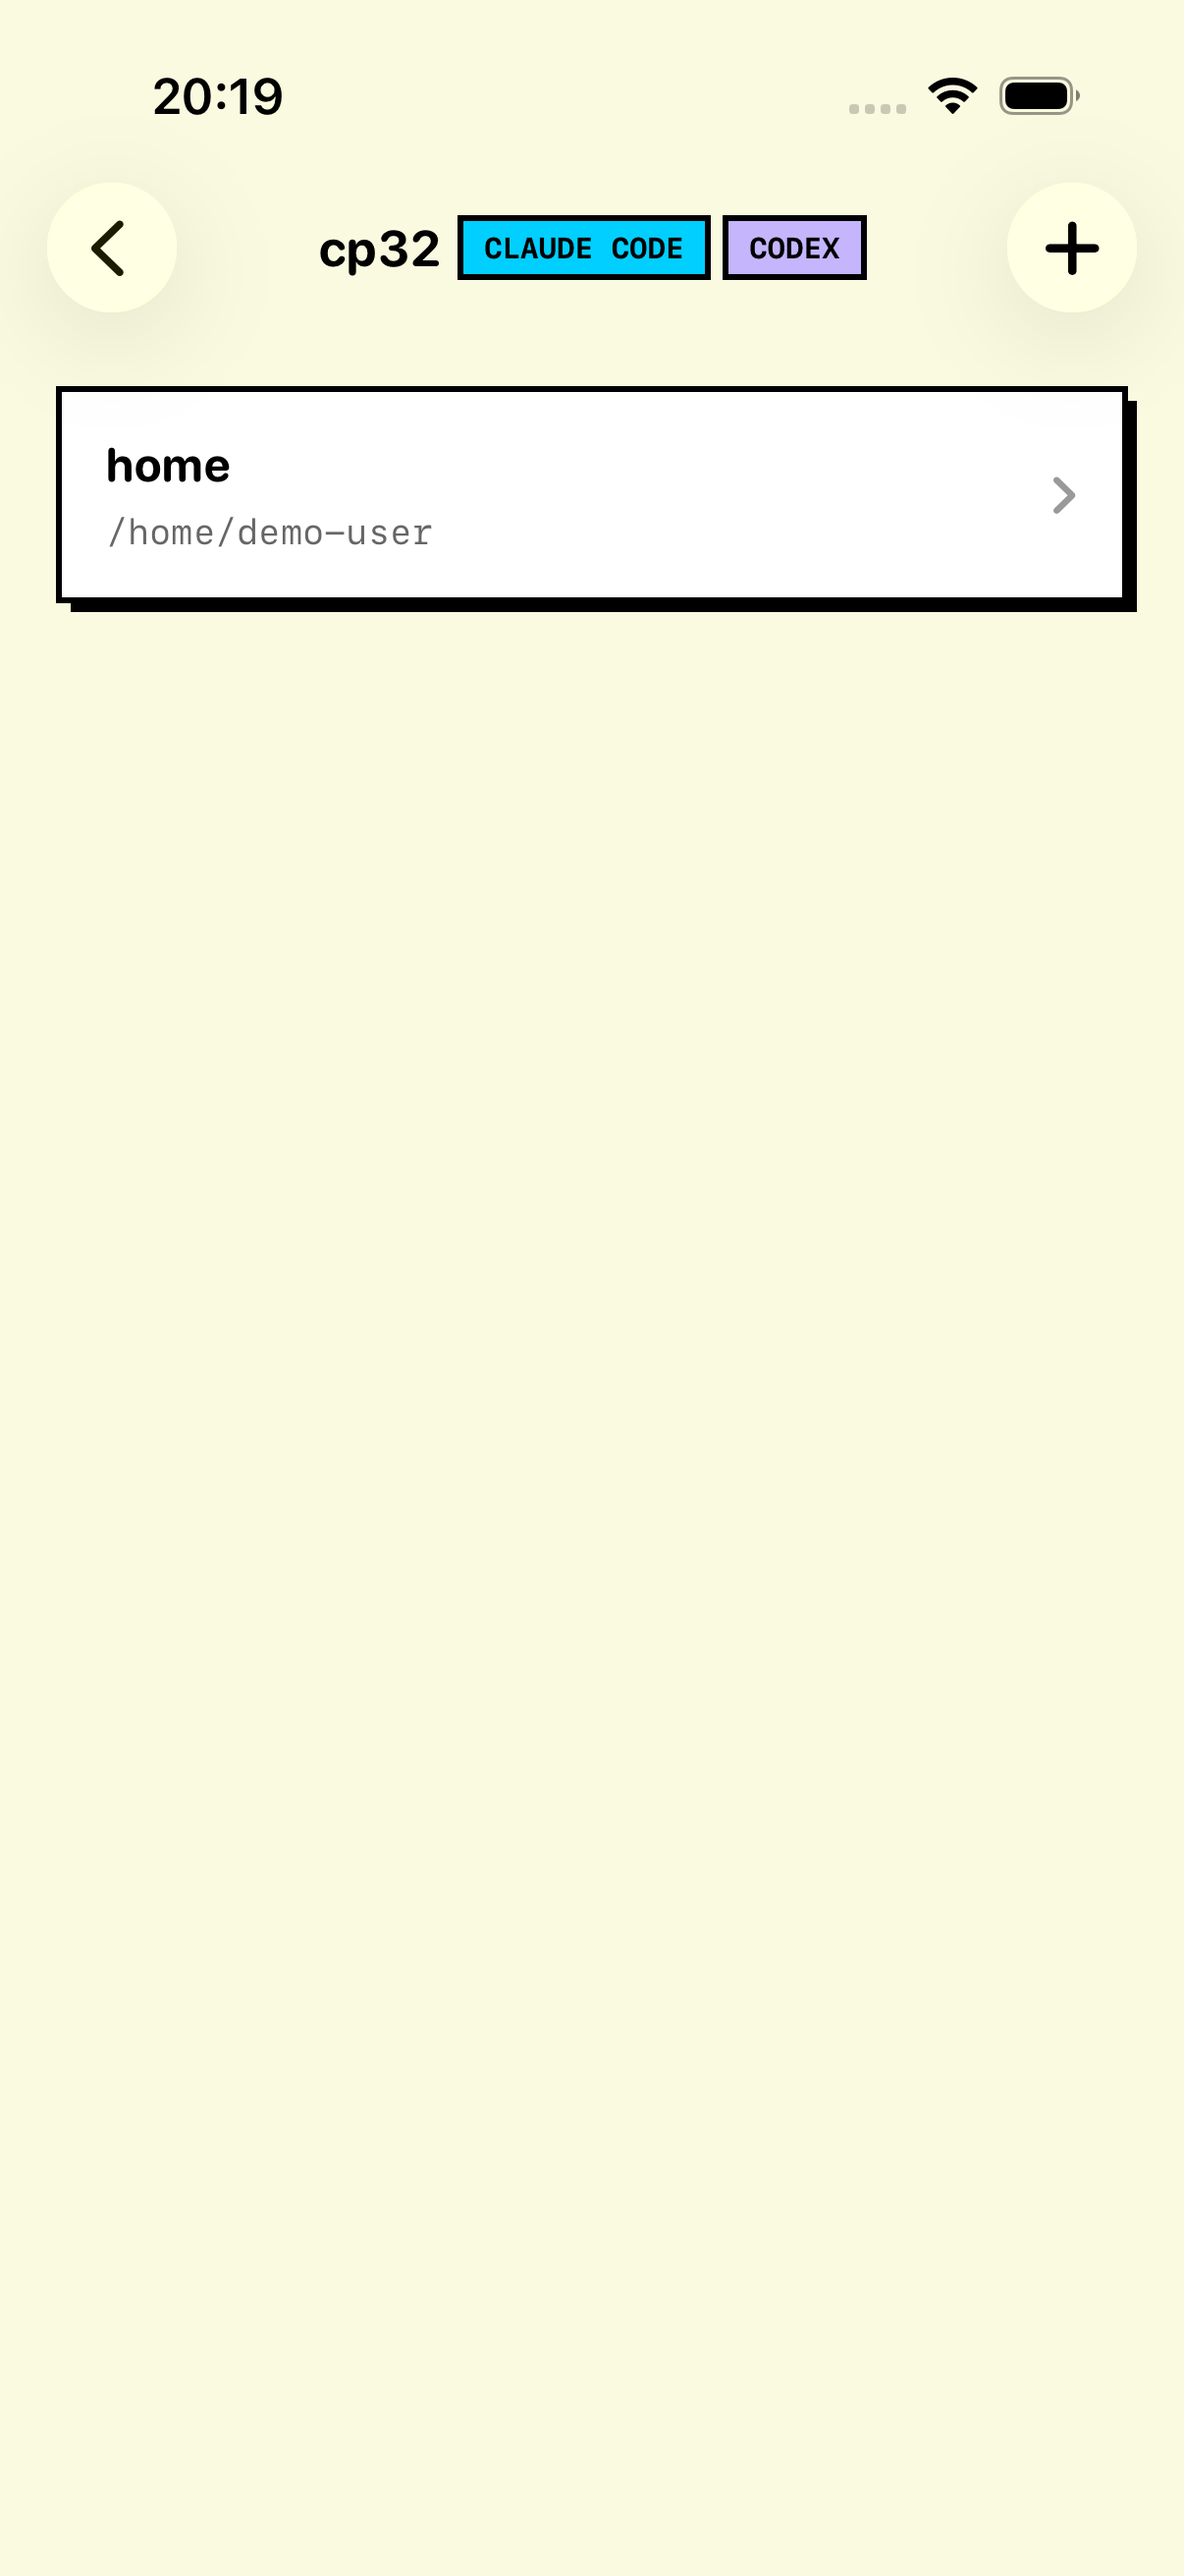
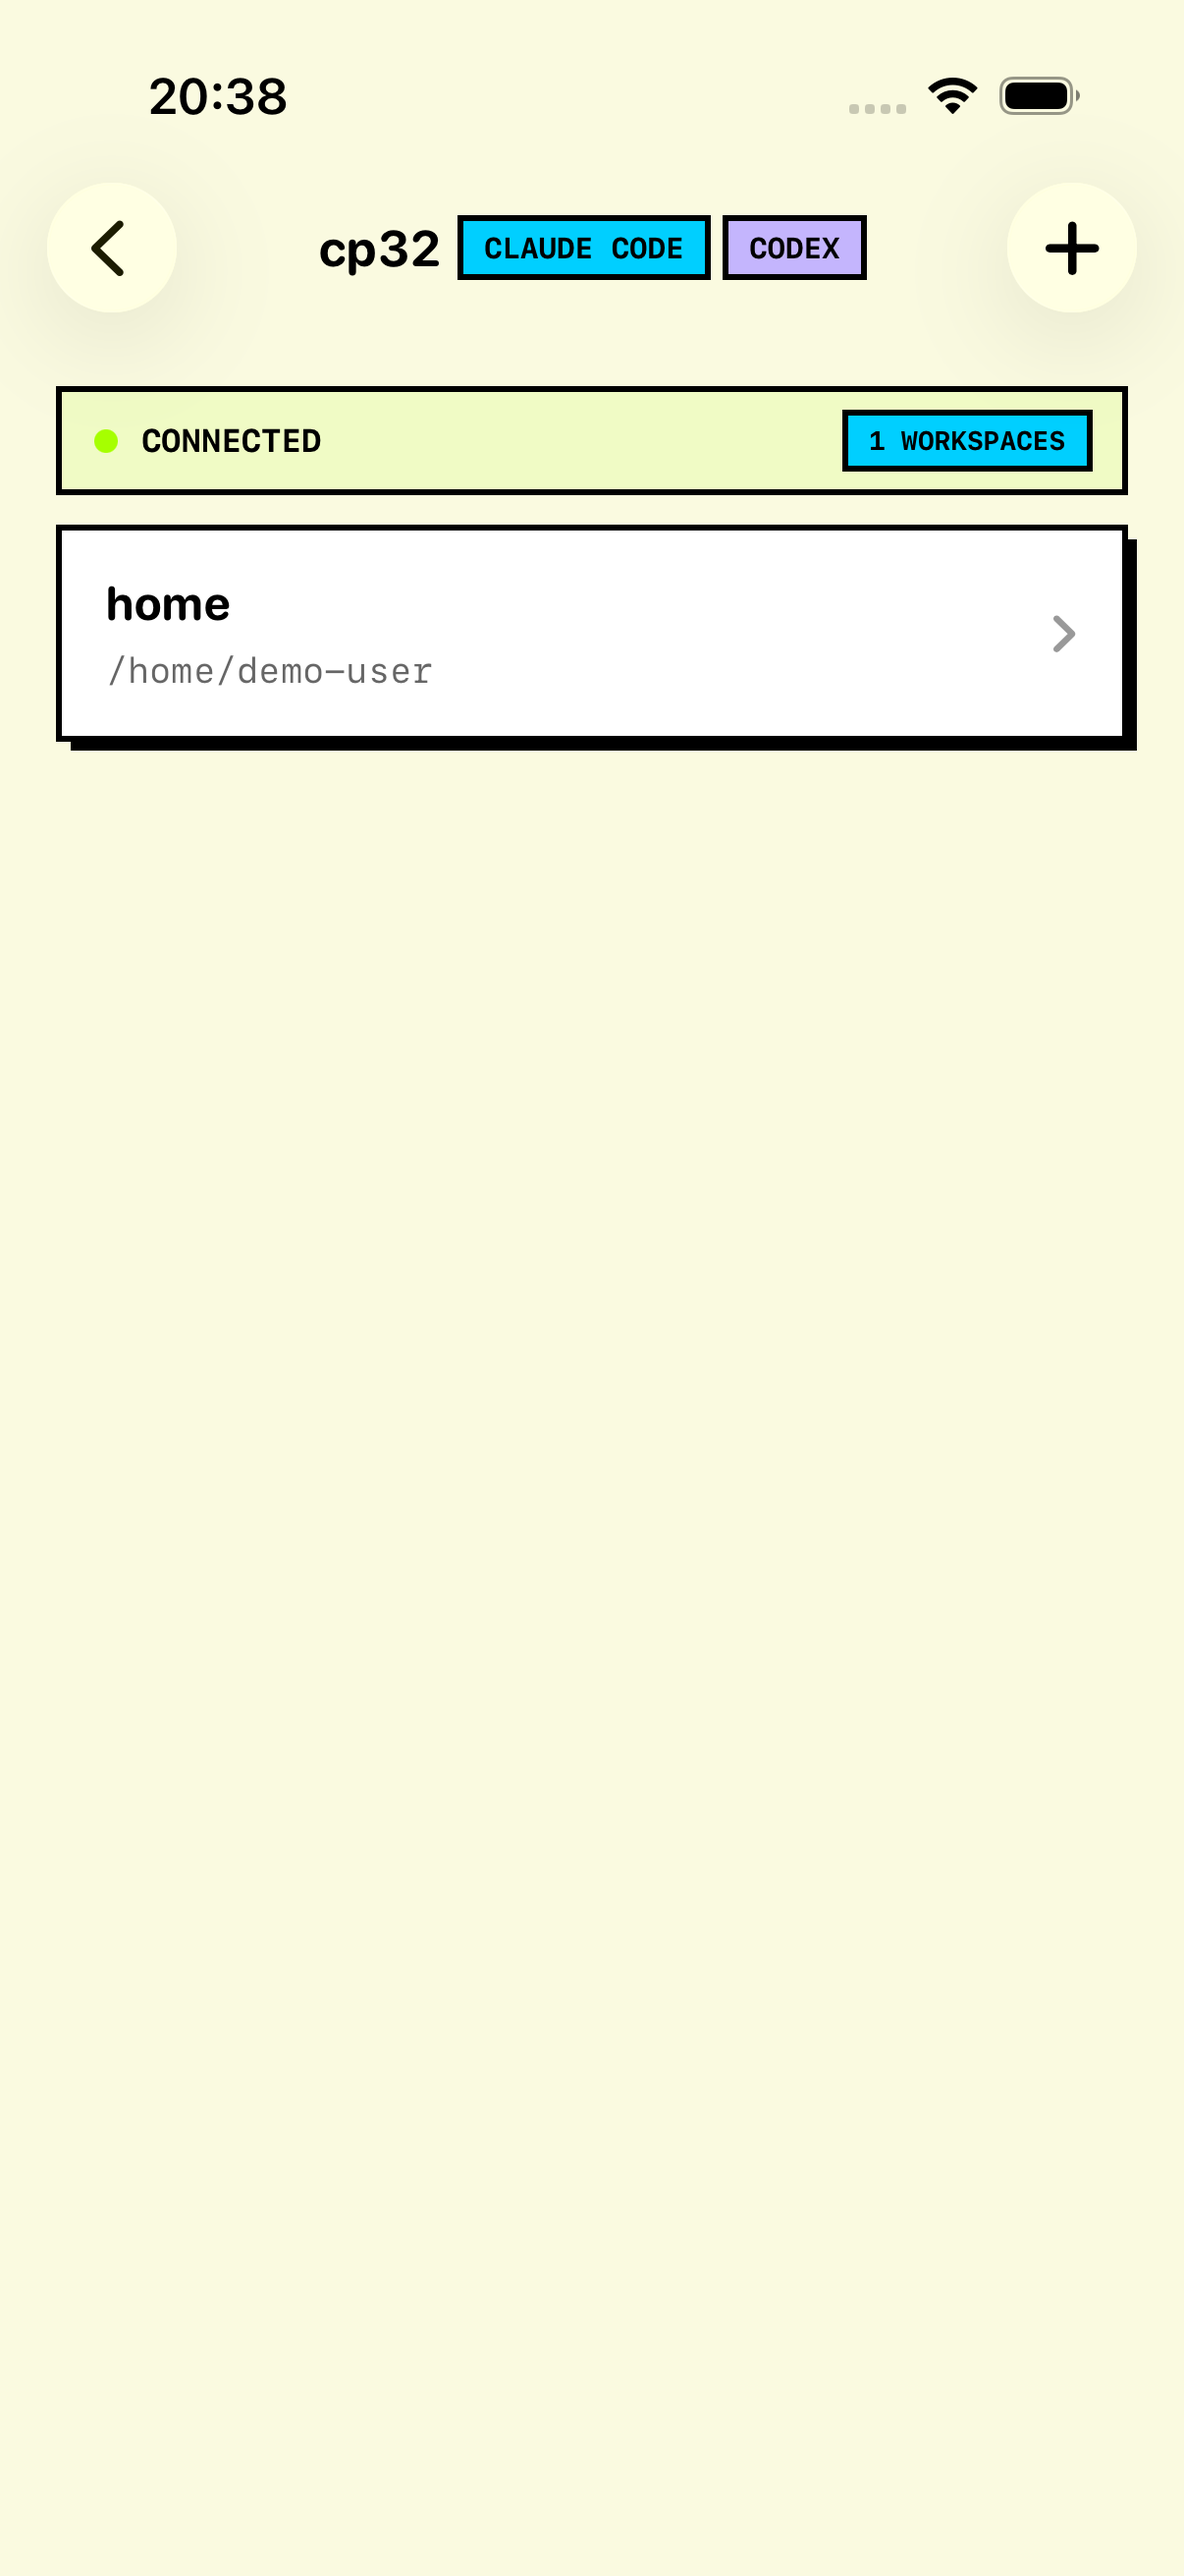
Improve main view color accents to match reference design
Add colorful state-based fills, count chips, and status banners
across SessionPicker, NodeList, WorkspaceList, and ChatView to
better align with the Slock reference design aesthetic.

Changed region(s): [[0.0307, 0.1545, 0.9818, 0.3089], [0.1227, 0.0309, 0.2454, 0.0618]]

diff --git a/Sources/Views/NodeListView.swift b/Sources/Views/NodeListView.swift
@@ -16,6 +16,16 @@ struct NodeListView: View {
                 brandingRow
                     .padding(.top, 20)
 
+                if !nodes.isEmpty {
+                    HStack {
+                        Text("NODES")
+                            .font(Brutal.mono(12, weight: .bold))
+                            .foregroundStyle(.black.opacity(0.5))
+                        BrutalChip("\(nodes.count)", fill: Brutal.lime, fontSize: 10)
+                        Spacer()
+                    }
+                }
+
                 ForEach(nodes) { node in
                     NavigationLink {
                         WorkspaceListView(node: node)
@@ -101,24 +111,30 @@ struct NodeListView: View {
     }
 
     private var brandingRow: some View {
-        VStack(spacing: 8) {
-            Image("LogoMark")
-                .resizable()
-                .interpolation(.high)
-                .scaledToFit()
-                .frame(width: 80, height: 80)
+        VStack(spacing: 0) {
+            VStack(spacing: 8) {
+                Image("LogoMark")
+                    .resizable()
+                    .interpolation(.high)
+                    .scaledToFit()
+                    .frame(width: 80, height: 80)
 
-            Image("LogoWordmark")
-                .resizable()
-                .interpolation(.high)
-                .scaledToFit()
-                .frame(height: 32)
+                Image("LogoWordmark")
+                    .resizable()
+                    .interpolation(.high)
+                    .scaledToFit()
+                    .frame(height: 32)
 
-            Image("LogoTagline")
-                .resizable()
-                .interpolation(.high)
-                .scaledToFit()
-                .frame(height: 18)
+                Image("LogoTagline")
+                    .resizable()
+                    .interpolation(.high)
+                    .scaledToFit()
+                    .frame(height: 18)
+            }
+            .frame(maxWidth: .infinity)
+            .padding(.vertical, 16)
+            .background(Brutal.lime.opacity(0.15))
+            .overlay(Rectangle().stroke(Color.black, lineWidth: Brutal.border))
         }
         .accessibilityElement(children: .ignore)
         .accessibilityLabel("OpenCAN logo")

diff --git a/Sources/Views/SessionPickerView.swift b/Sources/Views/SessionPickerView.swift
@@ -212,10 +212,17 @@ struct SessionPickerView: View {
                 // Session list
                 let sessions = unifiedSessions
                 if !sessions.isEmpty {
-                    HStack {
+                    HStack(spacing: 6) {
                         Text("SESSIONS")
                             .font(Brutal.mono(12, weight: .bold))
                             .foregroundStyle(.black.opacity(0.5))
+                        BrutalChip("\(sessions.count)", fill: Brutal.cyan, fontSize: 9)
+                        let running = sessions.filter {
+                            ["running", "prompting", "draining", "attached"].contains($0.displayState)
+                        }.count
+                        if running > 0 {
+                            BrutalChip("\(running) active", fill: Brutal.lime, fontSize: 9)
+                        }
                         Spacer()
                     }
                     .padding(.top, 8)
@@ -337,7 +344,16 @@ struct SessionPickerView: View {
             }
         }
         .padding(14)
-        .brutalCard(fill: .white, shadow: Brutal.shadowSm)
+        .brutalCard(fill: sessionCardFill(session), shadow: Brutal.shadowSm)
+    }
+
+    private func sessionCardFill(_ session: UnifiedSession) -> Color {
+        switch session.displayState {
+        case "running", "prompting", "draining": Brutal.lime.opacity(0.15)
+        case "attached": Brutal.mint.opacity(0.15)
+        case "starting": Brutal.orange.opacity(0.15)
+        default: .white
+        }
     }
 
     @MainActor

diff --git a/Sources/Views/WorkspaceListView.swift b/Sources/Views/WorkspaceListView.swift
@@ -164,6 +164,22 @@ struct WorkspaceListView: View {
     private var workspaceListContent: some View {
         ScrollView {
             VStack(spacing: 12) {
+                // Connection status banner
+                HStack(spacing: 8) {
+                    Circle()
+                        .fill(Brutal.lime)
+                        .frame(width: 8, height: 8)
+                    Text("CONNECTED")
+                        .font(Brutal.mono(11, weight: .bold))
+                        .foregroundStyle(.black)
+                    Spacer()
+                    BrutalChip("\((node.workspaces ?? []).count) workspaces", fill: Brutal.cyan, fontSize: 9)
+                }
+                .padding(.horizontal, 12)
+                .padding(.vertical, 8)
+                .background(Brutal.lime.opacity(0.12))
+                .overlay(Rectangle().stroke(Color.black, lineWidth: Brutal.border))
+
                 ForEach(node.workspaces ?? []) { workspace in
                     NavigationLink {
                         SessionPickerView(workspace: workspace)

diff --git a/Sources/Views/ChatView.swift b/Sources/Views/ChatView.swift
@@ -41,10 +41,21 @@ struct ChatView: View {
         .navigationBarTitleDisplayMode(.inline)
         #endif
         .toolbar {
+            #if os(iOS)
+            ToolbarItem(placement: .principal) {
+                HStack(spacing: 6) {
+                    Text(appState.activeWorkspace?.name ?? "Chat")
+                        .font(Brutal.display(17, weight: .bold))
+                        .foregroundStyle(.black)
+                    BrutalChip("LIVE", fill: Brutal.lime, fontSize: 9)
+                }
+            }
+            #endif
             ToolbarItem(placement: .confirmationAction) {
                 Button("Disconnect", role: .destructive) {
                     appState.disconnect()
                 }
+                .font(Brutal.mono(13, weight: .bold))
                 .foregroundStyle(Brutal.pink)
             }
         }
